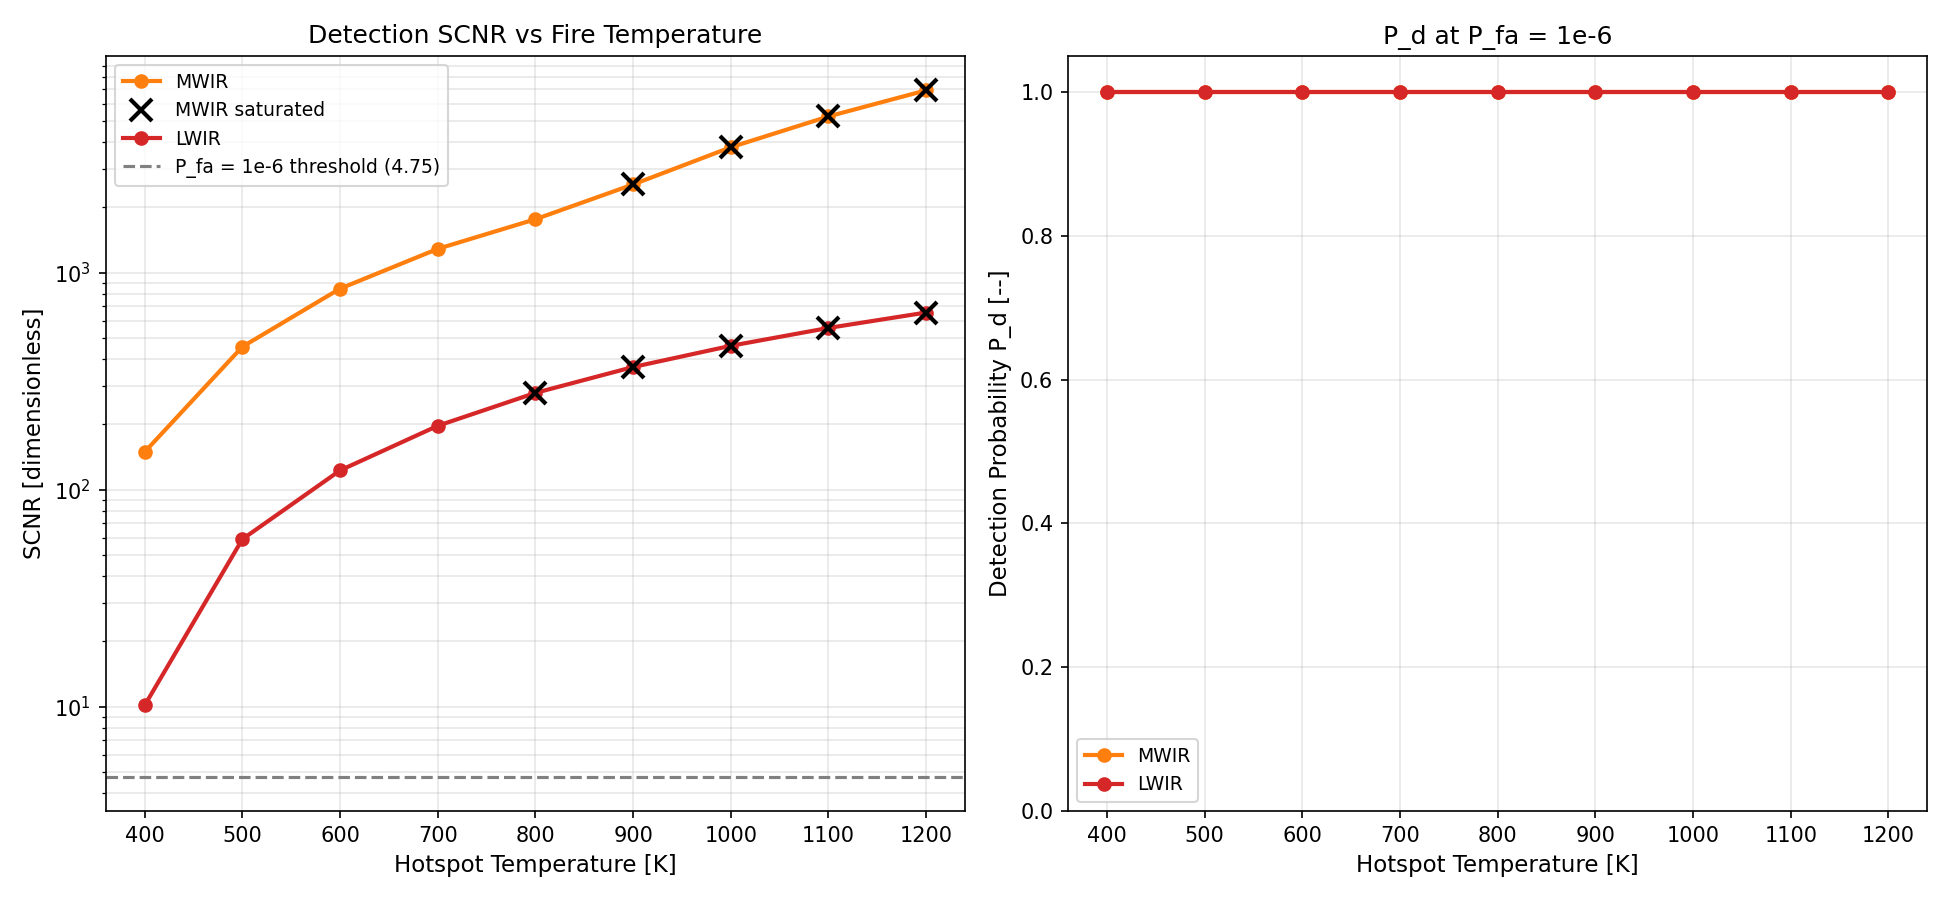
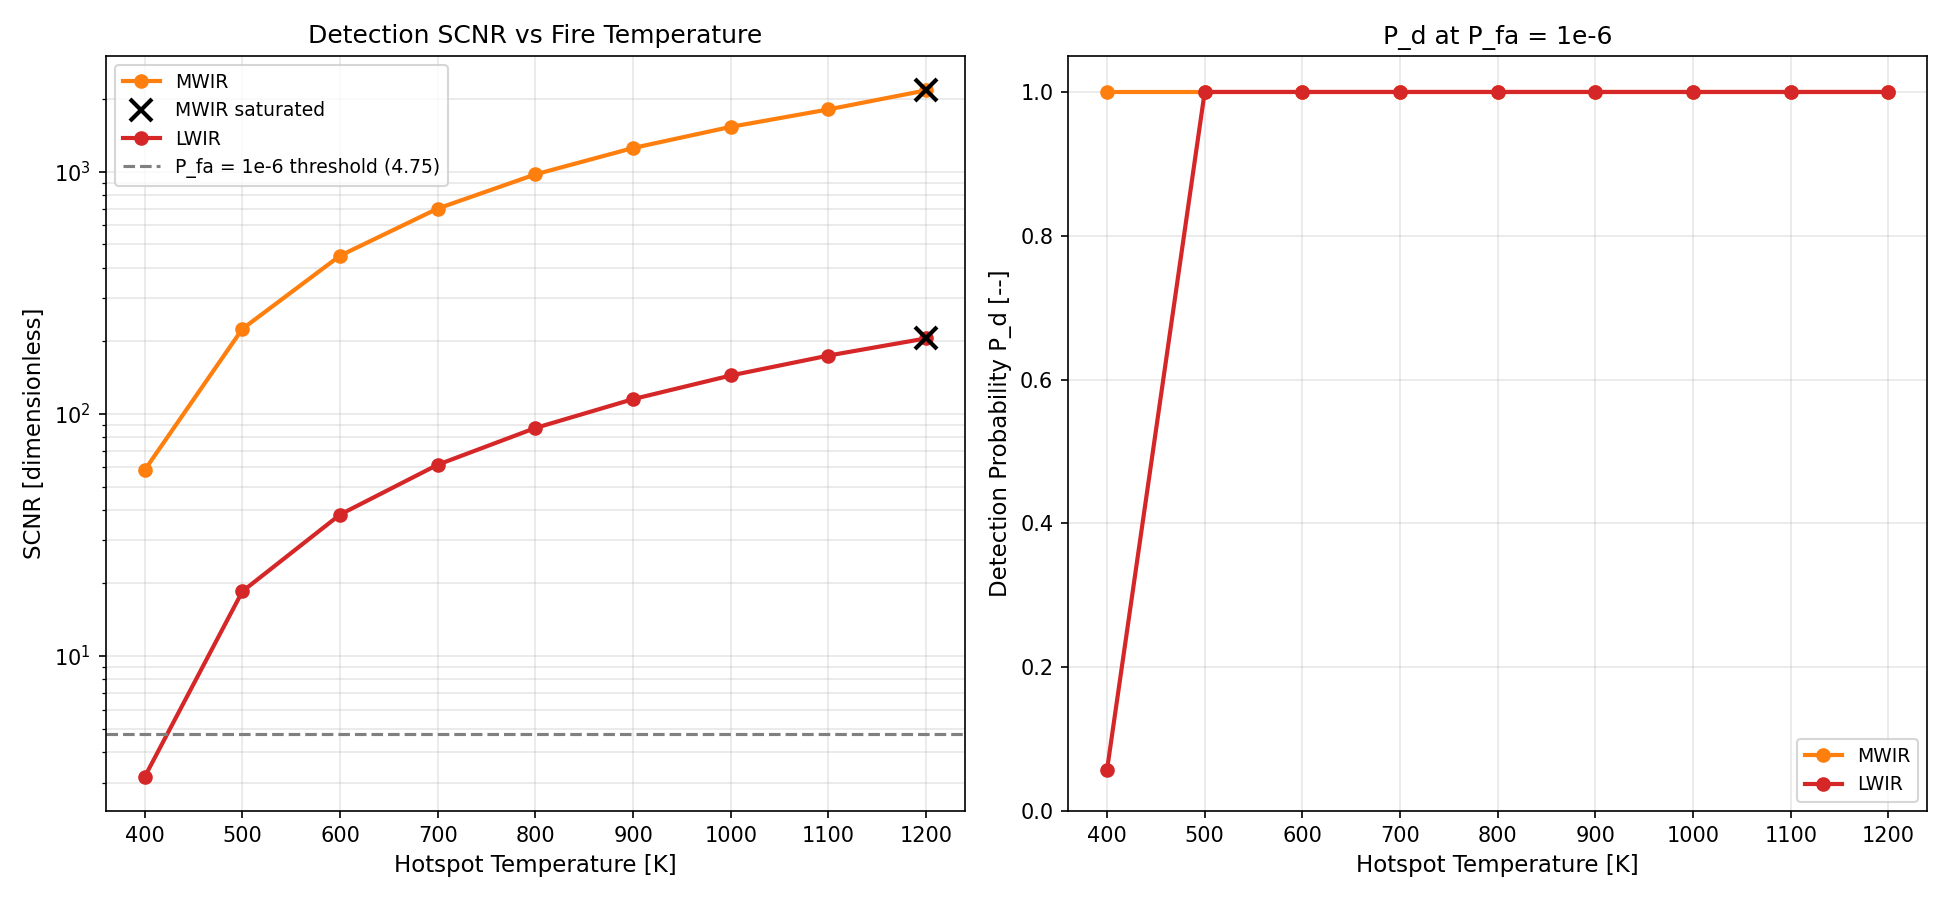
scenarios(1.3): CU-060 — set sub-pixel fill_fraction; refresh numbers
The sub-pixel regime weights the target by source.target.fill_fraction,
not projected_area_m2; leaving it at the default 1.0 modeled the 5 m²
hotspot (31% of the 16 m² pixel) as pixel-filling, overstating the fire
signal ~3×. build_sensor now sets fill_fraction = min(1, A/footprint).

Results: 600 K SCNR 844→449 (MWIR), 123→38 (LWIR); saturation onsets move
from ≈800/900 K to ≈1200 K in both bands; NEW finding — LWIR misses 400 K
smolders (SCNR 3.2 < 4.75σ threshold, P_d 0.057), a real discriminator the
pixel-filling error had hidden. Recommendation (MWIR for detection)
unchanged. Audited all other sub-pixel scenarios: only 4.1 uses sub_pixel
and it already sets fill_fraction correctly. Walkthrough/gaps/figures
refreshed.

diff --git a/scenarios/01_sarah_systems_engineer/1.3_dual_band_mwir_lwir/scripts/run_dual_band_trade.py b/scenarios/01_sarah_systems_engineer/1.3_dual_band_mwir_lwir/scripts/run_dual_band_trade.py
@@ -131,6 +131,11 @@ def build_sensor(band: str, hotspot_T: float) -> Sensor:
     s.set("source.target.temperature", hotspot_T)
     s.set("source.target.emissivity", shared["Hotspot emissivity"])
     s.set("source.target.projected_area_m2", shared["Hotspot area"])
+    # CU-060: the sub-pixel regime weights the target by fill_fraction, NOT
+    # by projected_area_m2 (which drives only the point-source A/R² path).
+    # Leaving it at the default 1.0 models the hotspot as pixel-filling and
+    # overstates its signal by 1/fill (~3× here).
+    s.set("source.target.fill_fraction", min(1.0, fill))
     s.set("source.target.range_m", altitude_m)  # nadir
     s.set("source.background.temperature", shared["Forest background temperature"])
     s.set("source.background.emissivity", eps_forest[band])

diff --git a/scenarios/01_sarah_systems_engineer/1.3_dual_band_mwir_lwir/walkthrough.md b/scenarios/01_sarah_systems_engineer/1.3_dual_band_mwir_lwir/walkthrough.md
@@ -34,19 +34,24 @@ the first execution at ms-class integrations clipped BOTH bands at 100%
 well on the 600 K fire — which is itself the well-known reason fire
 products run dedicated short-integration channels.
 
-## Key Results (600 K fire)
+## Key Results (600 K fire, fill fraction 0.31 — CU-060 corrected)
+
+The 5 m² hotspot fills 31% of the 16 m² pixel footprint; the sub-pixel
+regime weights the target by `source.target.fill_fraction` (CU-060 — the
+original execution left it at the default 1.0, overstating the fire signal
+~3× and pulling the saturation temperatures down).
 
 | Quantity | MWIR | LWIR |
 |----------|-----:|-----:|
-| Pixel signal [e⁻] | 752,423 | 7,806,779 |
-| Contrast (fire − forest) [e⁻] | 747,615 | 6,140,911 |
-| Well fill [%] | 18.8 | 65.1 |
-| Total noise [e⁻ RMS] | 885.6 | 50,071.3 |
+| Pixel signal [e⁻] | 238,438 | 3,584,903 |
+| Contrast (fire − forest) [e⁻] | 233,630 | 1,919,035 |
+| Well fill [%] | 6.0 | 29.9 |
+| Total noise [e⁻ RMS] | 519.9 | 50,029.1 |
 | — of which clutter [e⁻ RMS] | 144.2 | 49,976.1 |
-| SNR [--] | 861.1 | 2,529.5 |
-| Contrast SNR [--] | 855.6 | 1,989.7 |
-| **SCNR (incl. clutter) [--]** | **844.2** | **122.6** |
-| NEDT [mK] (Gap 43 approximation) | 123.1 | 89.9 |
+| SNR [--] | 477.3 | 1,556.7 |
+| Contrast SNR [--] | 467.7 | 833.3 |
+| **SCNR (incl. clutter) [--]** | **449.4** | **38.4** |
+| NEDT [mK] (Gap 43 approximation) | 221.8 | 145.1 |
 
 ### Spectral contrast (hand Planck, ASTER ε_bg(λ))
 
@@ -58,32 +63,34 @@ background) is 350× MWIR's. Same ΔL, wildly different signal-to-clutter.
 
 ### Fire-temperature sweep (400–1200 K), P_fa = 1e-6
 
-| T_fire [K] | MWIR SCNR | sat? | LWIR SCNR | sat? | P_d (both) |
-|-----------:|----------:|:----:|----------:|:----:|:----------:|
-| 400 | 149.3 | no | 10.1 | no | 1.000 |
-| 600 | 844.2 | no | 122.6 | no | 1.000 |
-| 800 | 1,763.3 | no | 279.2 | **YES** | 1.000 |
-| 900 | 2,549.9 | **YES** | 367.4 | YES | 1.000 |
-| 1200 | 6,924.3 | YES | 655.0 | YES | 1.000 |
+| T_fire [K] | MWIR SCNR | sat? | LWIR SCNR | sat? | P_d MWIR | P_d LWIR |
+|-----------:|----------:|:----:|----------:|:----:|:--------:|:--------:|
+| 400 | 58.6 | no | 3.2 | no | 1.000 | **0.057** |
+| 500 | 224.1 | no | 18.5 | no | 1.000 | 1.000 |
+| 600 | 449.4 | no | 38.4 | no | 1.000 | 1.000 |
+| 800 | 973.5 | no | 87.3 | no | 1.000 | 1.000 |
+| 1000 | 1,529.1 | no | 143.9 | no | 1.000 | 1.000 |
+| 1200 | 2,163.8 | **YES** | 204.7 | **YES** | 1.000 | 1.000 |
 
-Both bands detect a 5 m² fire with P_d ≈ 1 at every temperature — from
-10 km, detection is not the discriminator. **Dynamic range is**: with
-these fire-mode integrations the LWIR saturates from ≈800 K and the MWIR
-from ≈900 K; above saturation the radiometry clips and in-band fire
-temperature cannot be retrieved. LWIR is closer to its well everywhere
-(65% at 600 K) because the 300 K background alone nearly fills it.
+MWIR detects the 5 m² fire with P_d ≈ 1 at every temperature; **LWIR
+misses the coolest fires** — at 400 K its SCNR (3.2) falls below the
+4.75σ threshold and P_d collapses to 0.057. That is a real band
+discriminator the pixel-filling error had hidden (LWIR SCNR was
+overstated ~3×). With the correct 31% fill, saturation moves out to
+≈1200 K in **both** bands (from ≈800/900 K before the fix); above it the
+radiometry clips and in-band fire temperature cannot be retrieved.
 
 ## Physics Discussion
 
-1. **Clutter, not noise, is the LWIR penalty.** LWIR total noise is 56×
-   MWIR's, and 99.8% of it is scene clutter — 3% of a background that is
+1. **Clutter, not noise, is the LWIR penalty.** LWIR total noise is 96×
+   MWIR's, and 99.9% of it is scene clutter — 3% of a background that is
    an order of magnitude brighter in-band. MWIR detection rides on the
    Wien-side contrast steepness with a dim background underneath.
 2. **ΔL alone is misleading.** The band-integrated radiance contrasts are
    within 2% of each other at 600 K; a briefing chart that stopped at ΔL
    would call the bands equivalent. The chain comparison (photon
    conversion, per-band QE/dark/read, clutter) is what separates them.
-3. **NEDT favors LWIR (89.9 vs 123.1 mK)** — for mapping ambient-
+3. **NEDT favors LWIR (145.1 vs 221.8 mK)** — for mapping ambient-
    temperature scenes LWIR remains the right band; NEDT is the wrong
    figure of merit for fire *detection* (both values carry the Gap 43
    single-λ caveat; the reflected-solar component of that caveat is
@@ -93,17 +100,21 @@ temperature cannot be retrieved. LWIR is closer to its well everywhere
    ASTER curve gives ε 0.9530/0.9821 (MWIR/LWIR); treating the forest as
    a flat ε = 0.97 would misstate each band's background radiance by
    ~2%, which flows straight into the clutter estimate.
-5. **Detection probability is a threshold formality here.** P_d =
-   Q(4.75 − SCNR) saturates to 1 for SCNR ≳ 10; the LWIR at a 400 K
-   smolder (SCNR 10.1) is the only cell anywhere near the transition.
-   ROC-grade detection modeling is planned T4 work (scenarios 4.2/6.4).
+5. **Detection probability now discriminates at the cool end.** P_d =
+   Q(4.75 − SCNR) saturates to 1 for SCNR ≳ 10, but the LWIR at a 400 K
+   smolder sits *below* threshold (SCNR 3.2 → P_d = 0.057) — LWIR misses
+   cool fires from 10 km at this fill. MWIR stays at P_d ≈ 1 everywhere.
+   (ROC-grade detection modeling now exists — `performance.roc`, scenario
+   6.4 — and could replace the single-threshold model here.)
 
 ## Recommendation
 
-**MWIR for detection** — SCNR is 7–15× LWIR's at every fire temperature,
-with 3× more headroom before saturation. Pair it with LWIR (or sub-frame
-MWIR integrations) if fire-temperature retrieval above ~900 K matters,
-and keep LWIR for ambient-scene mapping where its NEDT advantage applies.
+**MWIR for detection** — SCNR is 10–12× LWIR's at every fire temperature,
+LWIR misses 400 K smolders outright, and both bands now saturate together
+at ≈1200 K (the fill-corrected radiometry removed MWIR's earlier
+saturation penalty). Pair MWIR with sub-frame integrations if
+fire-temperature retrieval above ~1200 K matters, and keep LWIR for
+ambient-scene mapping where its NEDT advantage applies.
 
 ## Gaps Identified
 

diff --git a/scenarios/01_sarah_systems_engineer/1.3_dual_band_mwir_lwir/gaps.md b/scenarios/01_sarah_systems_engineer/1.3_dual_band_mwir_lwir/gaps.md
@@ -6,11 +6,20 @@ scenario 4.3's subject; ROC-grade detection is planned T4 work).
 
 ## Summary
 5 m² hotspot vs 300 K conifer forest from 10 km (4 m GSD, 31% fill,
-sub-pixel with clutter σ = 0.03). At 600 K: MWIR SCNR 844 vs LWIR 123 —
-nearly equal band-integrated ΔL (374 vs 382 W/m²/sr), but LWIR's clutter
-is 350× MWIR's because its 300 K background is ~10× brighter in-band.
-Both bands P_d ≈ 1 at 400–1200 K; LWIR saturates from ≈800 K, MWIR from
-≈900 K at the fire-mode integrations. Recommendation: MWIR for detection.
+sub-pixel with clutter σ = 0.03). At 600 K (CU-060 fill-corrected): MWIR
+SCNR 449 vs LWIR 38 — nearly equal band-integrated ΔL (374 vs 382
+W/m²/sr), but LWIR's clutter is 350× MWIR's because its 300 K background
+is ~10× brighter in-band. MWIR P_d ≈ 1 at 400–1200 K; LWIR misses 400 K
+smolders (P_d 0.057); both bands saturate from ≈1200 K at the fire-mode
+integrations. Recommendation: MWIR for detection.
+
+## CU-060 correction (2026-07-09)
+The first execution left `source.target.fill_fraction` at its default 1.0
+— the sub-pixel regime weights the target by fill_fraction, not
+projected_area_m2, so the 31%-fill hotspot was modeled as pixel-filling
+and both bands' fire signals were ~3× overstated (SCNR 844/123 → 449/38;
+saturation onsets ≈800/900 K → ≈1200 K both). Fixed in the run script;
+walkthrough numbers and figures refreshed.
 
 ## Gap Closure Status (catalog "Gaps revealed" list)
 
